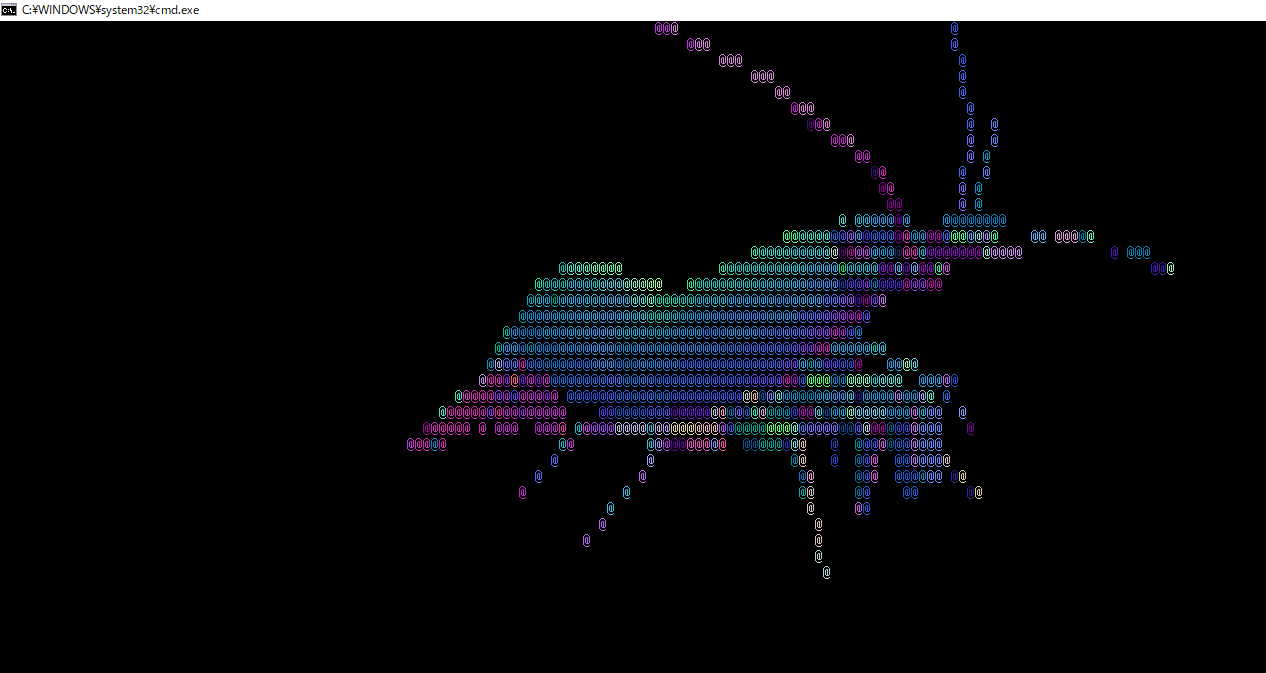
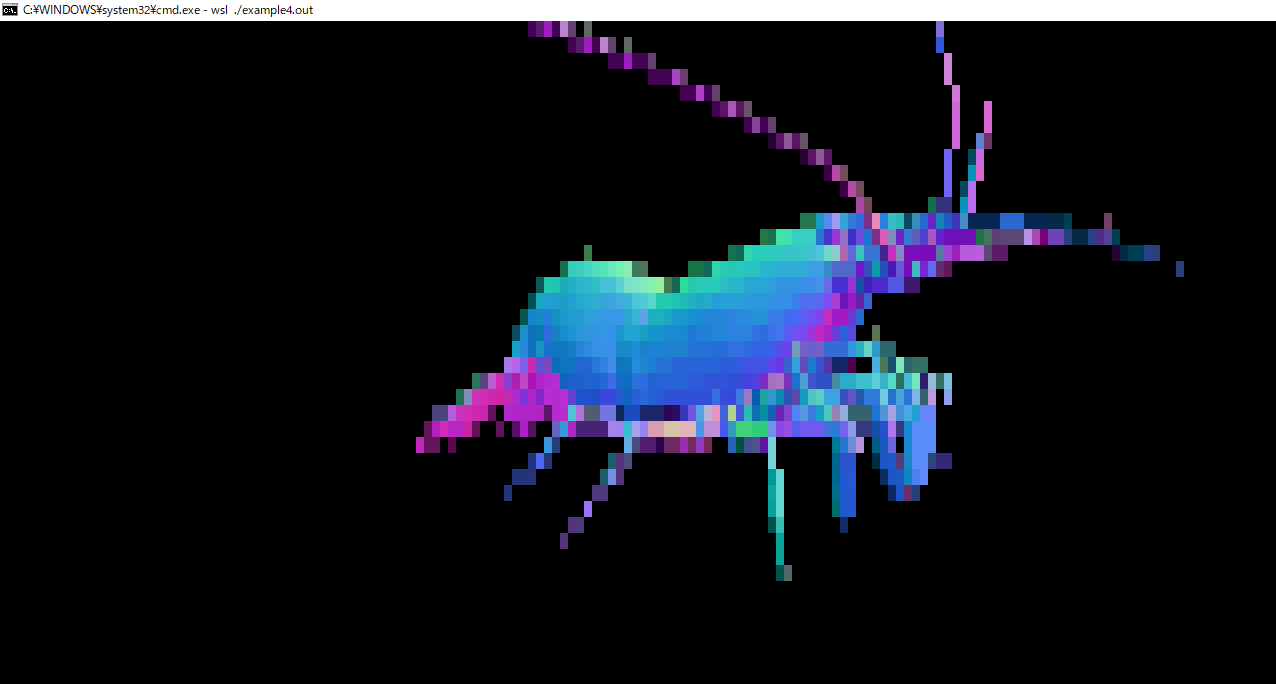
fix

diff --git a/pc/M5StickC.h b/pc/M5StickC.h
@@ -67,13 +67,13 @@ public:
     void pushSprite (int x, int y) {
         std::string s = "\x1B[2J\x1B[H";
         for (int y = 0; y < this->height; y += 2) {
-            
             for (int x = 0; x < this->width; x += 1) {
-                uint16_t r = ((this->buff[y*this->width+x] & 0b1111100000000000) >> 11) << 3;
-                uint16_t g = ((this->buff[y*this->width+x] & 0b0000011111100000) >>  5) << 2;
-                uint16_t b = ((this->buff[y*this->width+x] & 0b0000000000011111)      ) << 3;
-                
-                s += "\033[38;2;"+std::to_string(r)+";"+std::to_string(g)+";" + std::to_string(b) + "m@";
+                uint32_t c1 = this->buff[y*this->width+x];
+                uint32_t c2 = this->buff[(y+1)%this->height*this->width+x];
+                uint16_t r = ((((c1 & 0xF800) >> 11) << 3) + (((c2 & 0xF800) >> 11) << 3)) >> 1;
+                uint16_t g = ((((c1 & 0x07E0) >>  5) << 2) + (((c2 & 0x07E0) >>  5) << 2)) >> 1;
+                uint16_t b = ((((c1 & 0x001F)      ) << 3) + (((c2 & 0x001F)      ) << 3)) >> 1;
+                s += "\033[48;2;"+std::to_string(r)+";"+std::to_string(g)+";" + std::to_string(b) + "m ";
             }
             s += "\033[0m\n";
         }
